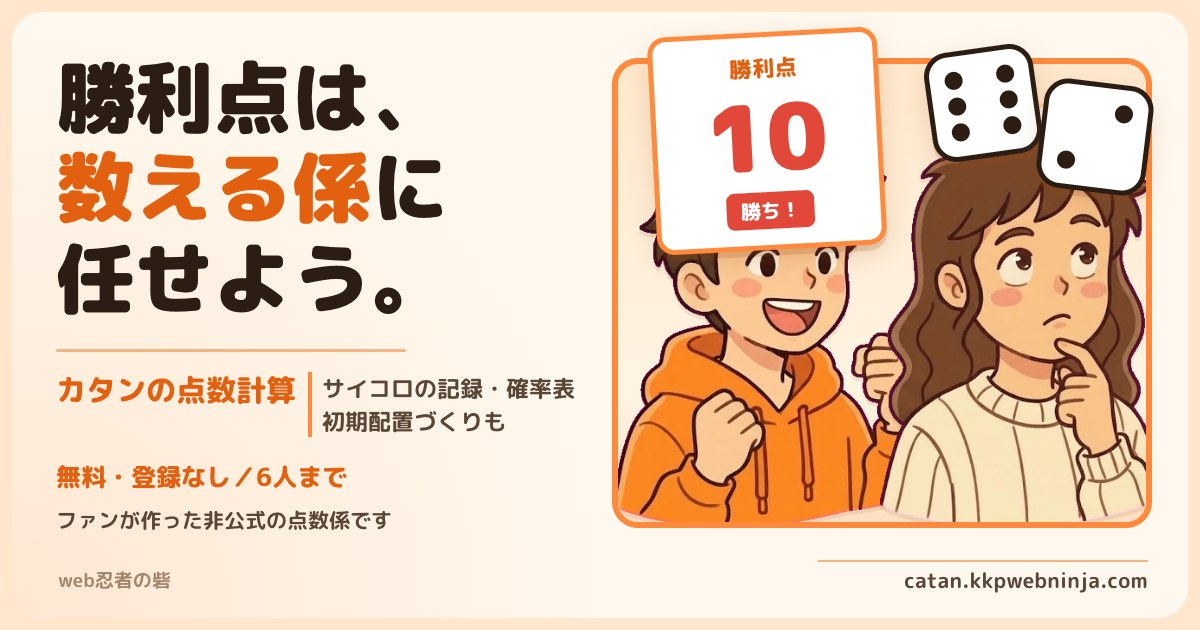
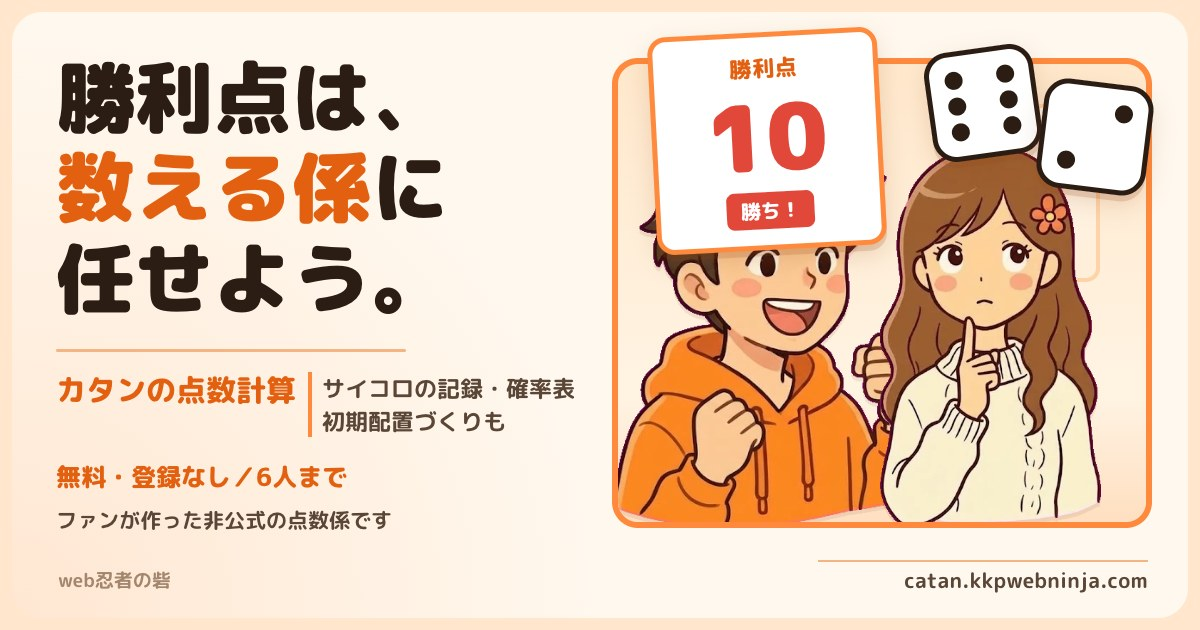
カード画像（OGP）の女の子を、ひと目で女の子と分かる絵に差し替える
男の子と同じ顔に見えていたため、kkp-kit の女の子の素材を作り直して書き出し直した（kkp-kit 978018e）。
og:image・twitter:image の ?d= を 20261023 にして、SNS に新しい画像を読み直させる。

Changed region(s): [[0.7092, 0.2413, 0.9558, 0.8444]]

diff --git a/index.html b/index.html
@@ -23,10 +23,10 @@
 <meta property="og:url" content="https://catan.kkpwebninja.com/">
 <meta property="og:site_name" content="カタンの点数計算とサイコロ">
 <meta property="og:locale" content="ja_JP">
-<meta property="og:image" content="https://catan.kkpwebninja.com/ogp.jpg?d=20261022">
+<meta property="og:image" content="https://catan.kkpwebninja.com/ogp.jpg?d=20261023">
 <meta name="twitter:card" content="summary_large_image">
 <meta name="twitter:title" content="カタンの点数計算・サイコロの確率表・初期配置｜勝利点の数え方（ファンが作った非公式ツール）">
-<meta name="twitter:image" content="https://catan.kkpwebninja.com/ogp.jpg?d=20261022">
+<meta name="twitter:image" content="https://catan.kkpwebninja.com/ogp.jpg?d=20261023">
 
 <!-- GA4（砦共通） -->
 <script async src="https://www.googletagmanager.com/gtag/js?id=G-2LM85GJN0L"></script>
